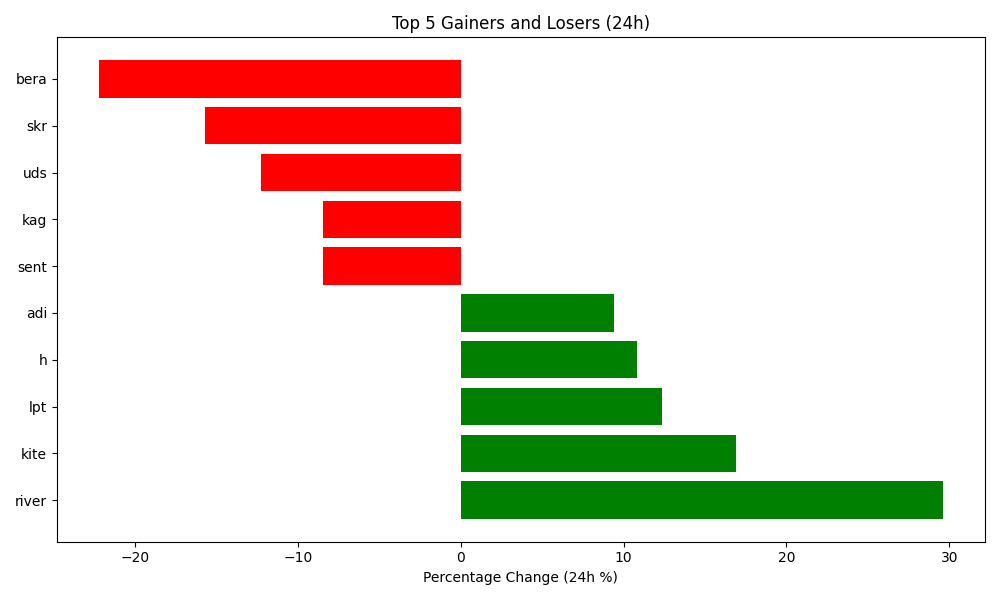
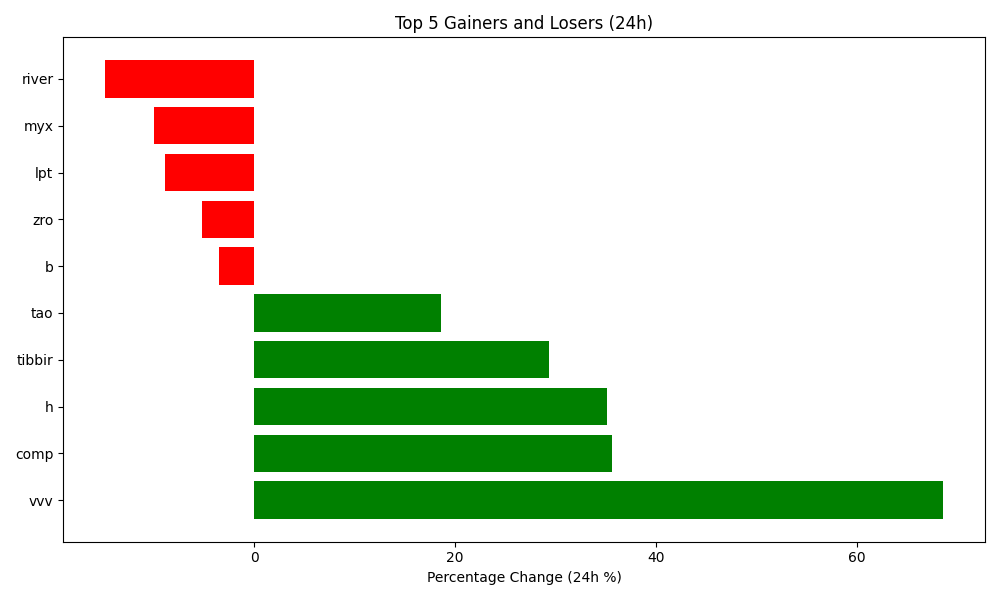
Auto-update crypto data and plot

diff --git a/README.md b/README.md
@@ -4,7 +4,7 @@ Author: Hitesh Agrawal
 This repository automatically tracks the top 5 gaining, top 5 losing, and top 5 highest volume cryptocurrencies in the last 24 hours using the CoinGecko API, Python, Matplotlib, and GitHub Actions updates the below content everyday at midnight.
 
 <!-- START_DYNAMIC_CONTENT -->
-Last updated: 2026-02-13 01:43 UTC
+Last updated: 2026-02-14 01:22 UTC
 
 ![Crypto Movers Plot](crypto_movers_plot.png)
 
@@ -12,33 +12,33 @@ Last updated: 2026-02-13 01:43 UTC
 
 | Rank | Coin | Price Change (24h %) | Volume (USD) | Current Price (USD) |
 | :--: | :--: | :------------------: | :----------: | :-----------------: |
-| 1 | river | 29.60% | $39,292,211 | $21.9600 |
-| 2 | kite | 16.88% | $100,671,926 | $0.1925 |
-| 3 | lpt | 12.37% | $79,652,046 | $2.6800 |
-| 4 | h | 10.83% | $33,684,614 | $0.1675 |
-| 5 | adi | 9.39% | $4,869,479 | $3.0200 |
+| 1 | vvv | 68.59% | $24,698,391 | $3.0700 |
+| 2 | comp | 35.60% | $245,914,412 | $21.7700 |
+| 3 | h | 35.08% | $139,852,925 | $0.2260 |
+| 4 | tibbir | 29.37% | $9,082,128 | $0.1395 |
+| 5 | tao | 18.58% | $143,934,054 | $183.5300 |
 
 
 **👇 Top 5 Losers (24h)**
 
 | Rank | Coin | Price Change (24h %) | Volume (USD) | Current Price (USD) |
 | :--: | :--: | :------------------: | :----------: | :-----------------: |
-| 1 | bera | -22.22% | $438,191,213 | $0.7030 |
-| 2 | skr | -15.70% | $18,427,089 | $0.0229 |
-| 3 | uds | -12.27% | $325,381 | $1.5700 |
-| 4 | kag | -8.48% | $1,945,977 | $76.3600 |
-| 5 | sent | -8.46% | $26,529,474 | $0.0237 |
+| 1 | river | -14.87% | $22,088,746 | $18.1600 |
+| 2 | myx | -10.04% | $19,176,129 | $2.8700 |
+| 3 | lpt | -8.92% | $39,202,766 | $2.4700 |
+| 4 | zro | -5.18% | $140,364,042 | $1.8300 |
+| 5 | b | -3.55% | $3,803,941 | $0.1445 |
 
 
 **💎 Top 5 by Trade Volume (24h)**
 
 | Rank | Coin | Price Change (24h %) | Volume (USD) | Current Price (USD) |
 | :--: | :--: | :------------------: | :----------: | :-----------------: |
-| 1 | usdt | -0.01% | $75,397,101,030 | $0.9994 |
-| 2 | btc | -2.13% | $48,314,734,231 | $66,421.0000 |
-| 3 | eth | -1.29% | $18,821,514,097 | $1,946.7200 |
-| 4 | usdc | 0.00% | $10,290,720,210 | $0.9999 |
-| 5 | sol | -2.62% | $3,833,762,243 | $78.4000 |
+| 1 | usdt | 0.04% | $69,754,838,585 | $0.9997 |
+| 2 | btc | 4.29% | $42,944,522,379 | $69,034.0000 |
+| 3 | eth | 5.80% | $20,444,258,857 | $2,053.9000 |
+| 4 | usdc | 0.02% | $12,266,281,029 | $1.0000 |
+| 5 | sol | 8.29% | $3,920,284,928 | $85.0100 |
 
 
 <!-- END_DYNAMIC_CONTENT -->
